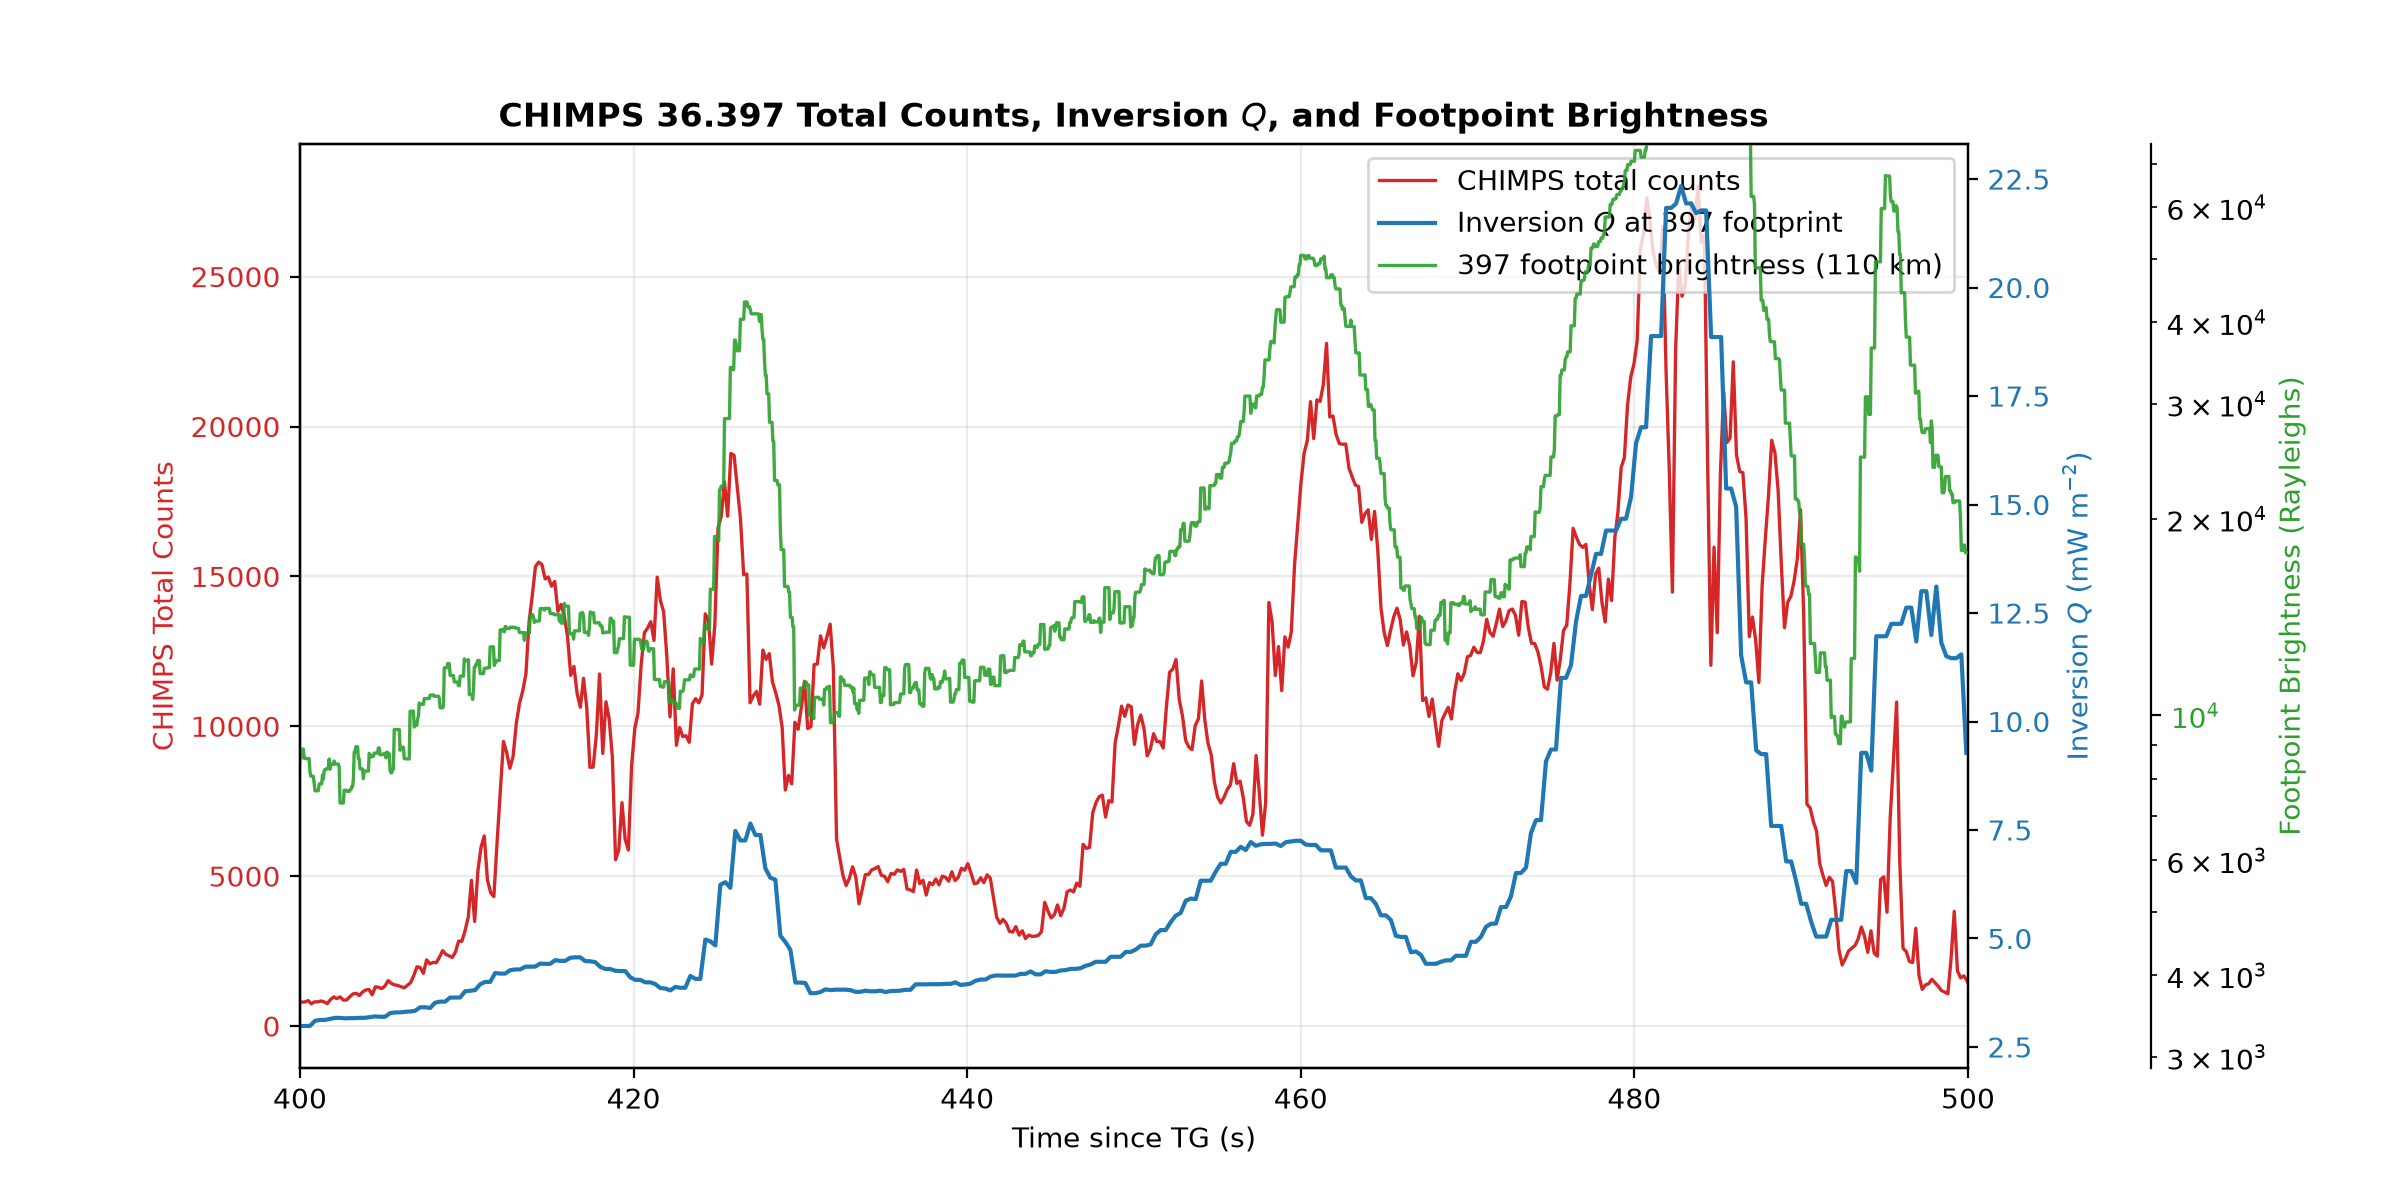
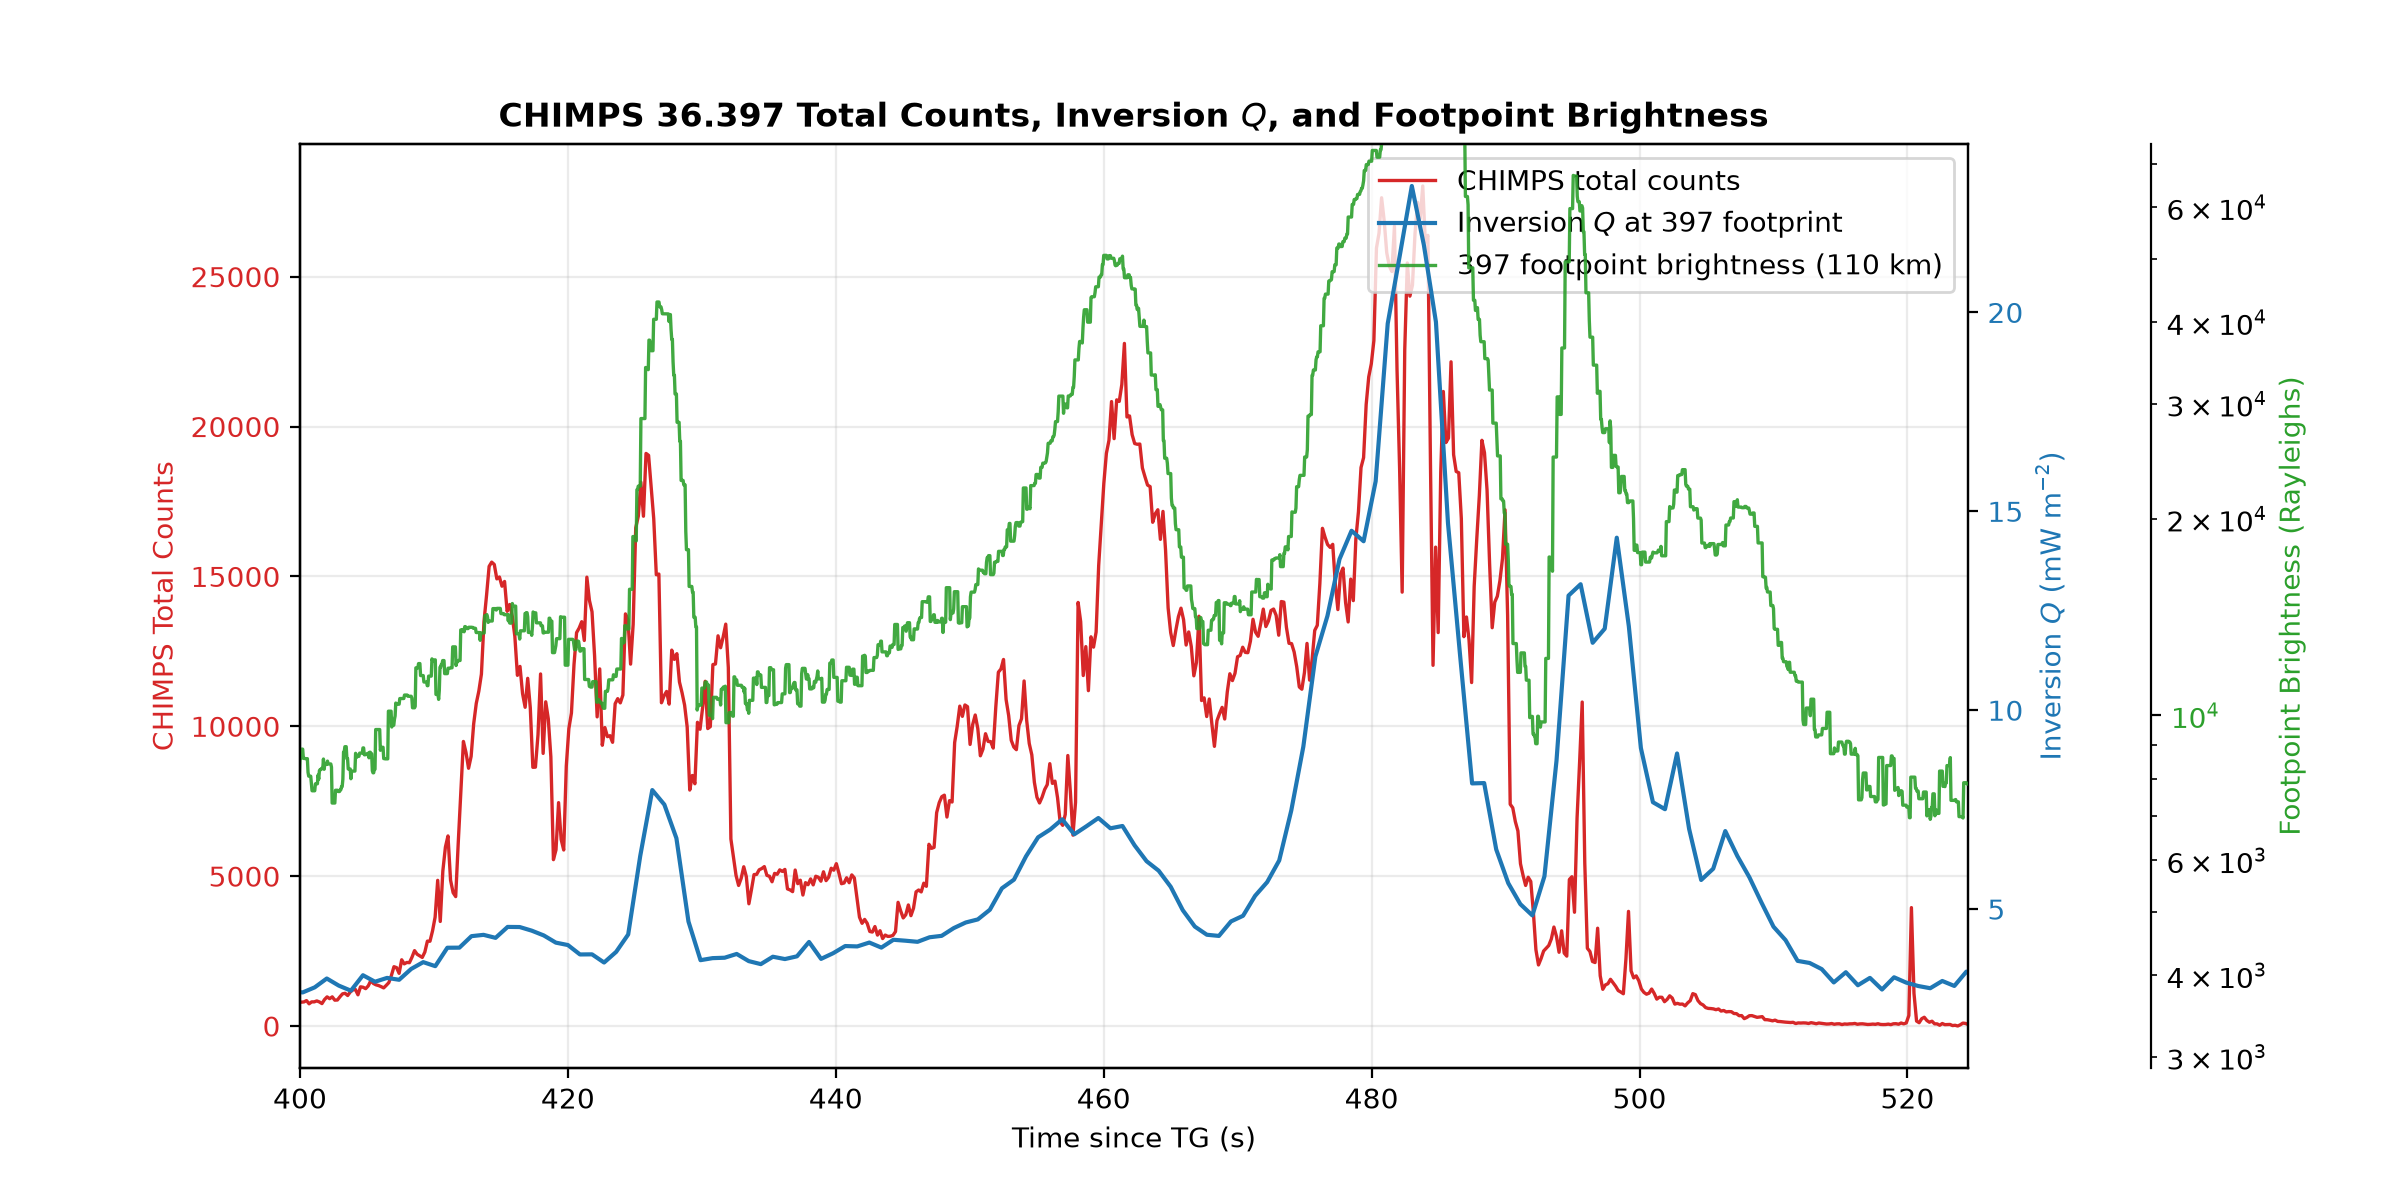
add blue option to traj_brightness_series.py

diff --git a/traj_brightness_series.py b/traj_brightness_series.py
@@ -344,7 +344,7 @@ def main():
     ap.add_argument("--step", type=float, default=0.05, help="Step size in seconds")
     ap.add_argument("--sites", nargs="*", default=None, help="Sites to include")
     ap.add_argument("--mission", choices=["GNEISS", "GIRAFF"], default=None, help="Mission dataset to use")
-    ap.add_argument("--color", choices=["green", "red"], default="green", help="ASI color channel")
+    ap.add_argument("--color", choices=["green", "red", "blue"], default="green", help="ASI color channel; blue is 4278 Angstrom (GNEISS ARV/BVR/VEE)")
     ap.add_argument("--output", default=None, help="Output HDF5 path")
     ap.add_argument("--no-plot", action="store_true", help="Write the HDF5 file only and skip the PNG plot")
     ap.add_argument(
@@ -381,6 +381,8 @@ def main():
     if not calibrated_sites:
         ap.error(f"none of the requested sites has a {args.color} Rayleigh calibration")
     args.sites = calibrated_sites
+    if args.color == "blue" and (args.mission != "GNEISS" or not set(args.sites).issubset({"ARV", "BVR", "VEE"})):
+        ap.error("--color blue currently supports only --mission GNEISS with sites ARV, BVR, VEE")
     for site in args.sites:
         print(
             f"{site}: calibration factor={calibration_factor(site, args.color):g} R s/count, "
@@ -419,7 +421,11 @@ def main():
         if site in selected_sites:
             tiff_candidates[site] = get_site_tiff_candidates(site, args.date, args.color, mission=args.mission)
 
-    frame_interval = FRAME_INTERVAL_SECONDS_GREEN if args.color == "green" else FRAME_INTERVAL_SECONDS_RED
+    frame_interval = {
+        "green": FRAME_INTERVAL_SECONDS_GREEN,
+        "red": FRAME_INTERVAL_SECONDS_RED,
+        "blue": 0.90178,
+    }[args.color]
     for site in ["ARV", "VEE", "BVR"]:
         if site in tiff_candidates:
             tiff_metadata[site] = build_tiff_metadata(tiff_candidates[site], frame_interval)

diff --git a/comparisons/compare_chimps_inversion_footprint.py b/comparisons/compare_chimps_inversion_footprint.py
@@ -23,7 +23,7 @@ import numpy as np
 from core.paths import DATA_ROOT, WORKSPACE_DIR
 
 
-DEFAULT_FOOTPRINT_H5 = WORKSPACE_DIR / "asispectralinversion" / "outputs" / "gneiss_rgb_102540_102720_step0.3s_footprints.h5"
+DEFAULT_FOOTPRINT_H5 = WORKSPACE_DIR / "asispectralinversion" / "outputs" / "gneiss_rgb_095000_103000_step0.9s_footprints.h5"
 DEFAULT_CHIMPS_H5 = DATA_ROOT / "processed" / "gneiss" / "stackplot" / "chimps_397_downgoing_data.h5"
 DEFAULT_BRIGHTNESS_H5 = DATA_ROOT / "processed" / "gneiss" / "stackplot" / "brightness_vs_time_101900_102848_step0p05.h5"
 DEFAULT_OUTPUT = Path(__file__).with_name("compare_chimps_spectra_e0_footprint.png")
